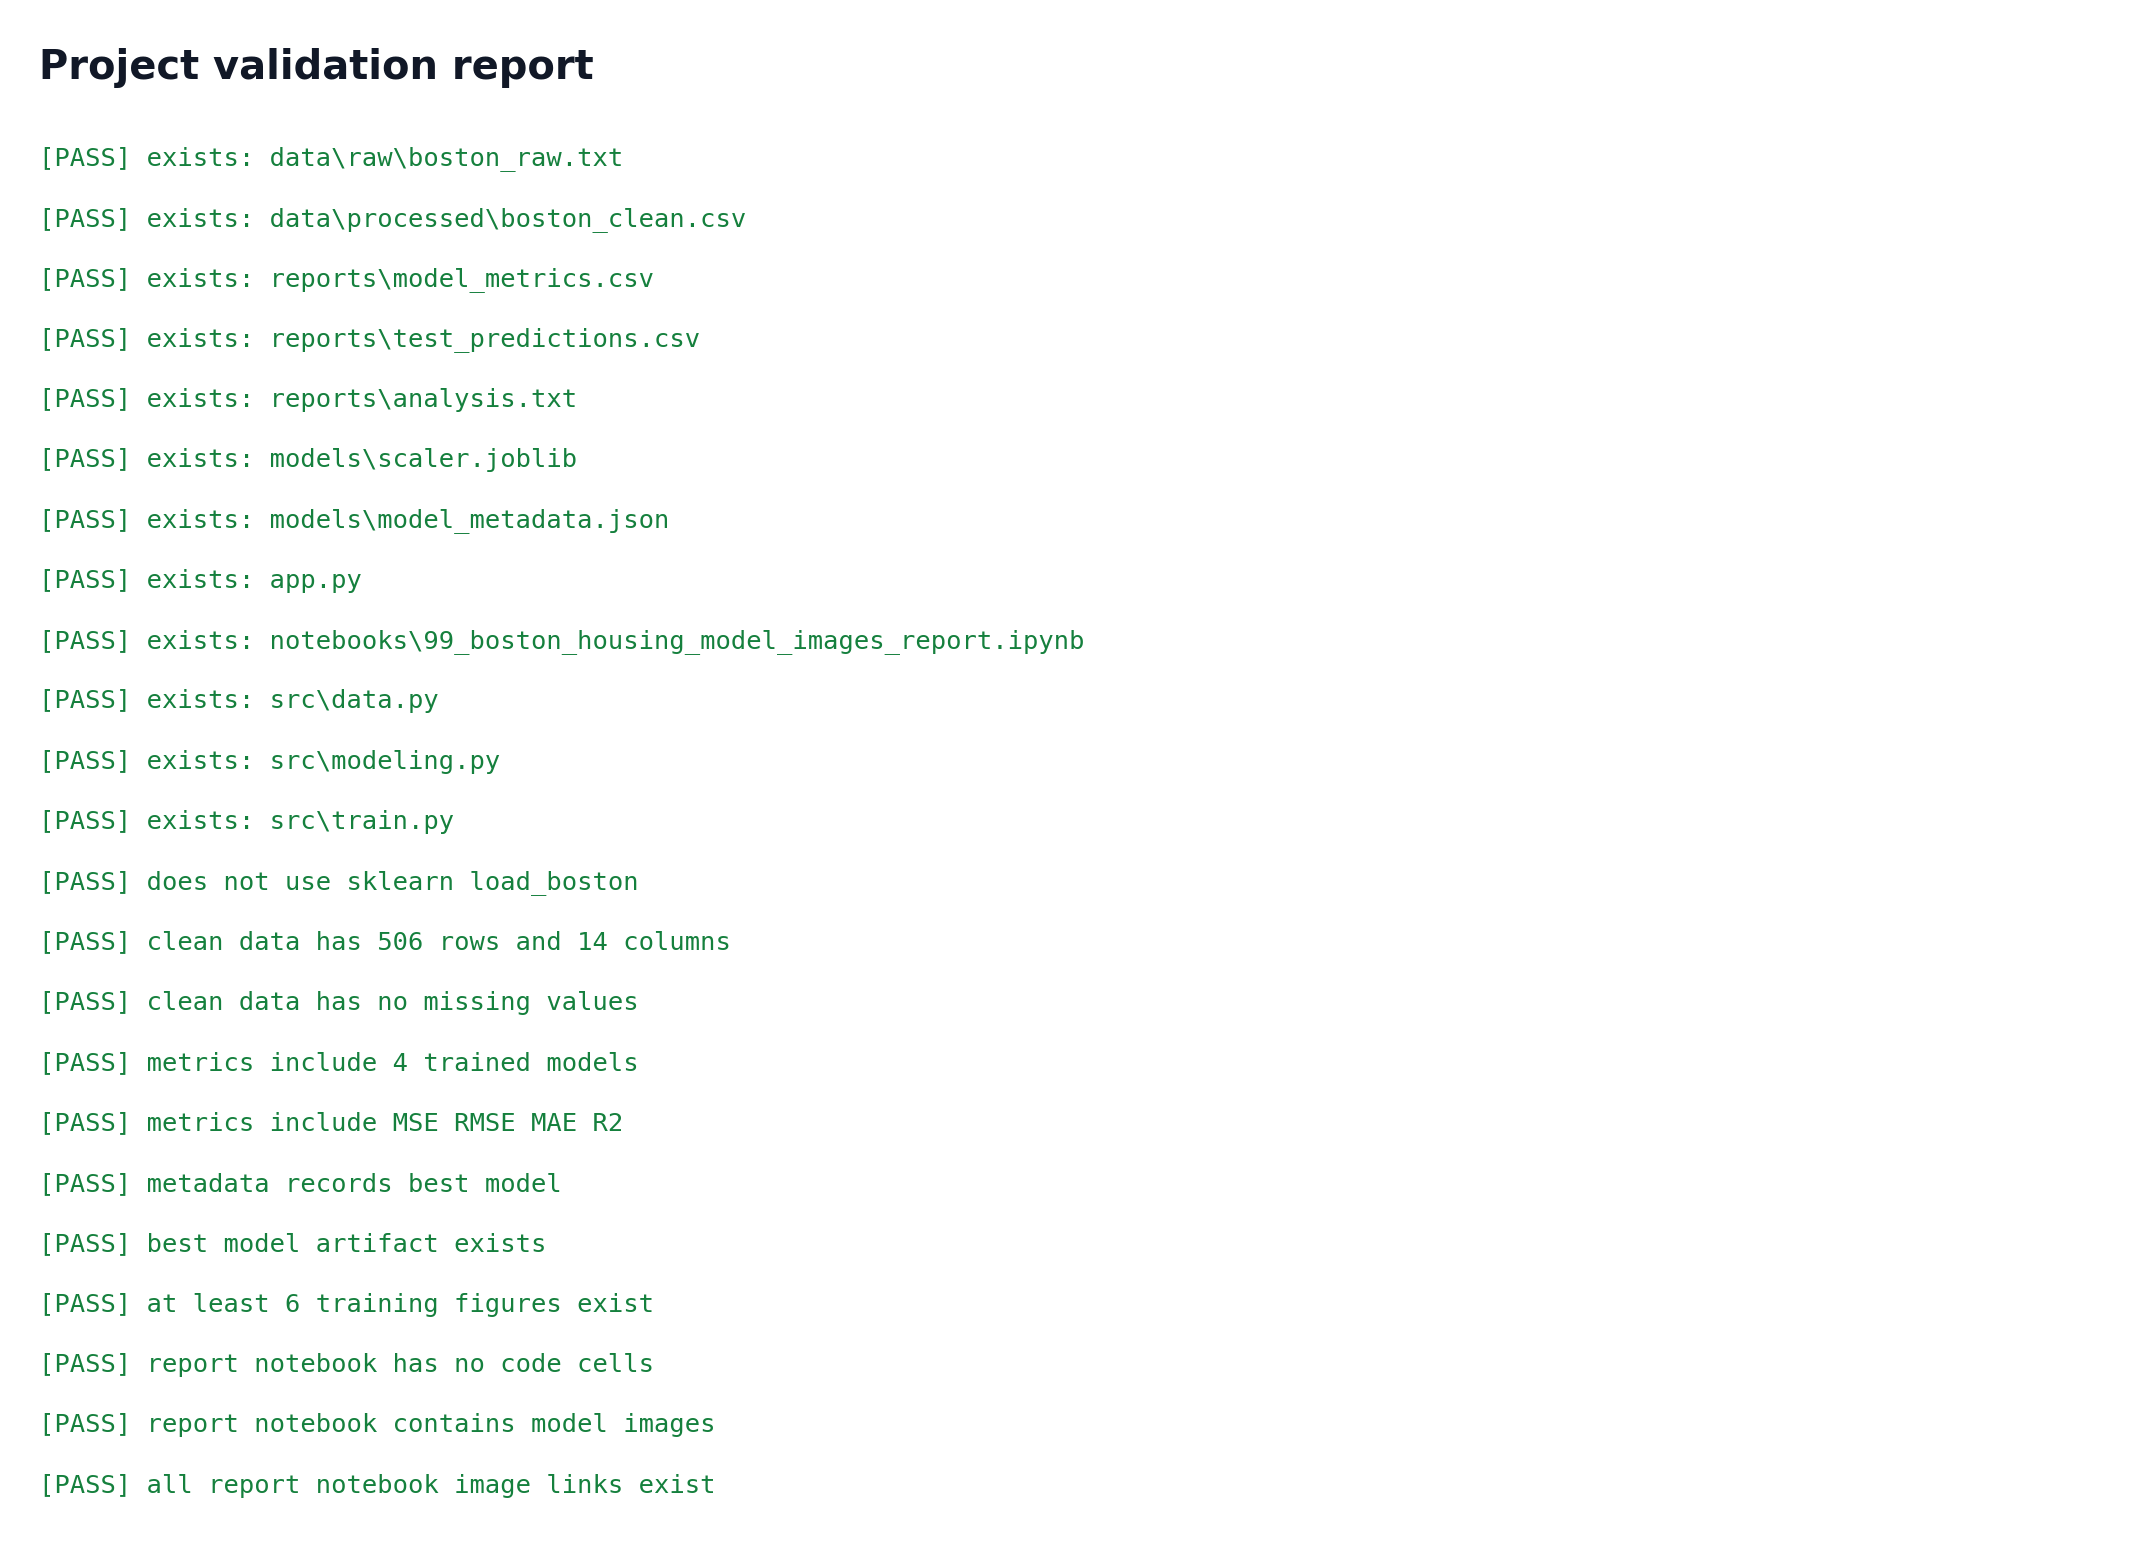
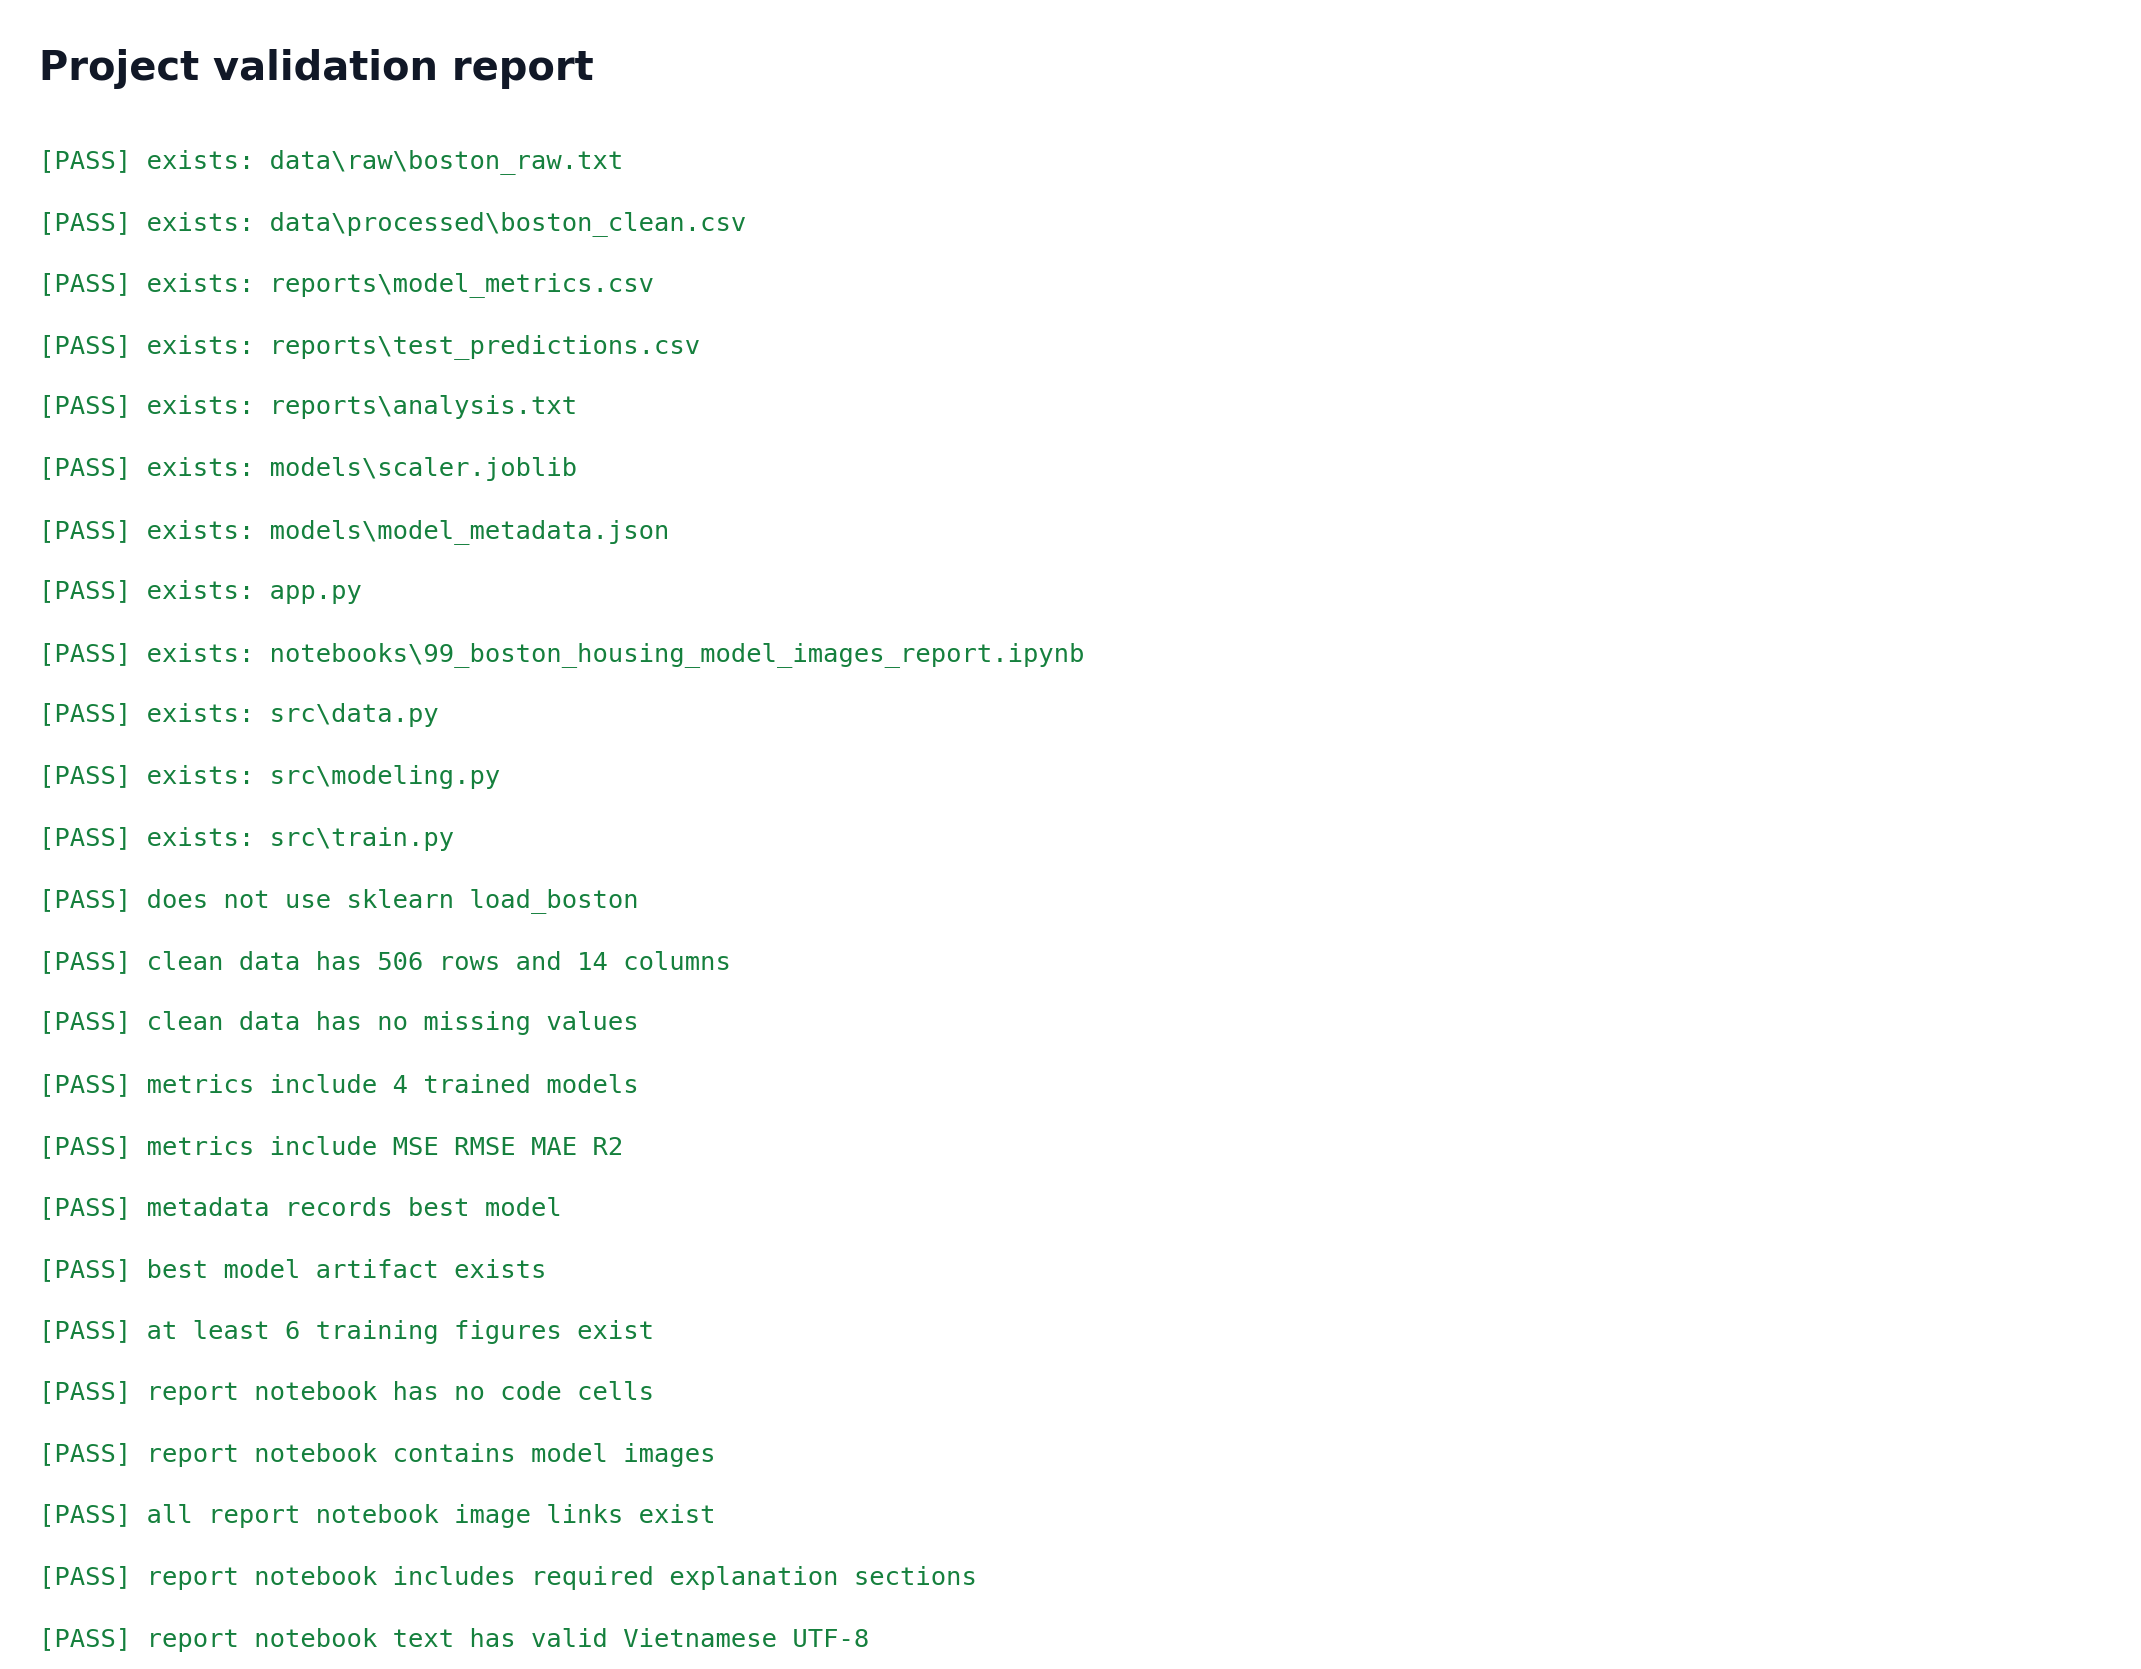
Expand Vietnamese report notebook sections

Changed region(s): [[0.0, 0.0933, 0.4932, 0.9948], [0.0308, 0.0311, 0.2774, 0.0622]]

diff --git a/src/validate_project.py b/src/validate_project.py
@@ -37,6 +37,11 @@ def notebook_image_paths(notebook_path: Path) -> list[Path]:
     return image_paths
 
 
+def notebook_text(notebook_path: Path) -> str:
+    notebook = json.loads(notebook_path.read_text(encoding="utf-8"))
+    return "\n".join("".join(cell.get("source", [])) for cell in notebook.get("cells", []))
+
+
 def validate_project() -> list[str]:
     checks: list[tuple[str, bool]] = []
 
@@ -76,10 +81,25 @@ def validate_project() -> list[str]:
 
     notebook = json.loads(REPORT_NOTEBOOK_PATH.read_text(encoding="utf-8"))
     notebook_cells = notebook.get("cells", [])
+    report_text = notebook_text(REPORT_NOTEBOOK_PATH)
     image_paths = notebook_image_paths(REPORT_NOTEBOOK_PATH)
     checks.append(("report notebook has no code cells", all(cell.get("cell_type") != "code" for cell in notebook_cells)))
     checks.append(("report notebook contains model images", len(image_paths) >= 8))
     checks.append(("all report notebook image links exist", all(path.exists() for path in image_paths)))
+    required_report_terms = [
+        "Define problem",
+        "Định nghĩa bài toán",
+        "Hướng giải quyết",
+        "Sử dụng những gì",
+        "Data lấy từ đâu",
+        "cách lấy data",
+        "Cách lọc data sạch",
+        "Số lượng feature: **13**",
+        "Hình ảnh sau khi train",
+        "Kết luận model",
+    ]
+    checks.append(("report notebook includes required explanation sections", all(term in report_text for term in required_report_terms)))
+    checks.append(("report notebook text has valid Vietnamese UTF-8", "\ufffd" not in report_text))
 
     failed = [name for name, passed in checks if not passed]
     report_lines = ["Project validation report", ""]

diff --git a/tests/test_project_requirements.py b/tests/test_project_requirements.py
@@ -44,3 +44,23 @@ def test_report_notebook_has_only_markdown_and_existing_images():
     assert len(image_links) >= 8
     missing = [path for path in image_links if not path.exists()]
     assert not missing
+
+
+def test_report_notebook_contains_required_vietnamese_sections():
+    notebook = json.loads(REPORT_NOTEBOOK_PATH.read_text(encoding="utf-8"))
+    report_text = "\n".join("".join(cell.get("source", [])) for cell in notebook["cells"])
+    required_terms = [
+        "Define problem",
+        "Định nghĩa bài toán",
+        "Hướng giải quyết",
+        "Sử dụng những gì",
+        "Data lấy từ đâu",
+        "cách lấy data",
+        "Cách lọc data sạch",
+        "Số lượng feature: **13**",
+        "Hình ảnh sau khi train",
+        "Kết luận model",
+    ]
+    for term in required_terms:
+        assert term in report_text
+    assert "\ufffd" not in report_text
